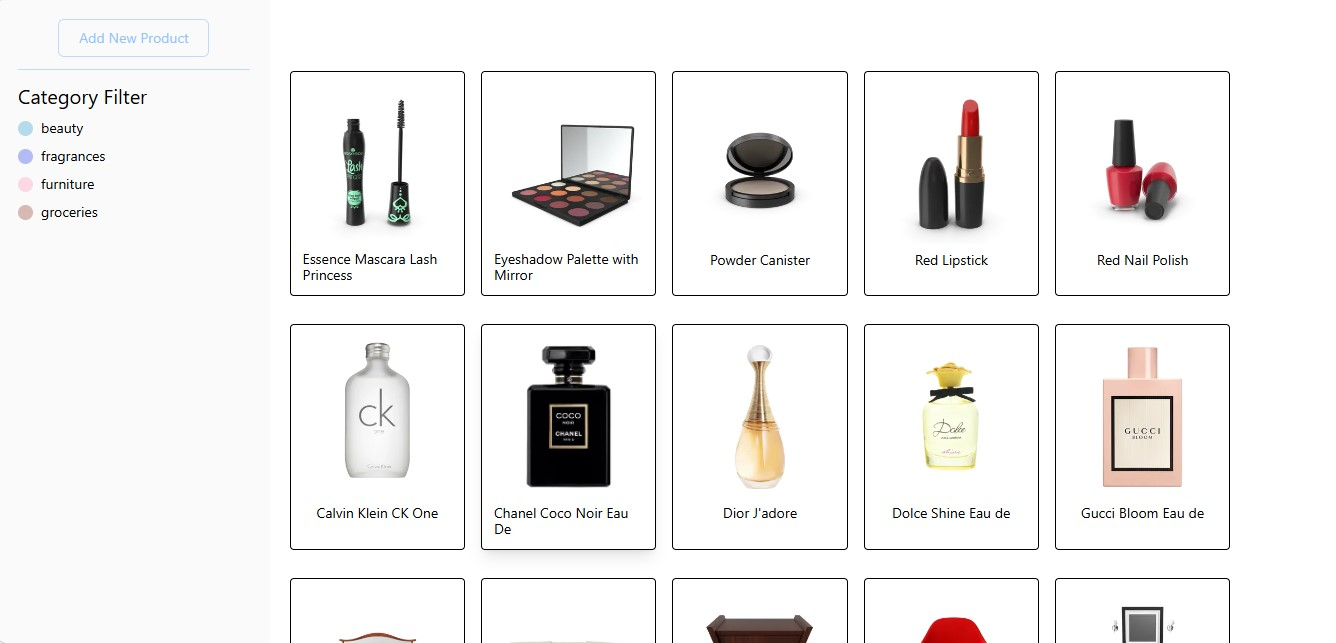
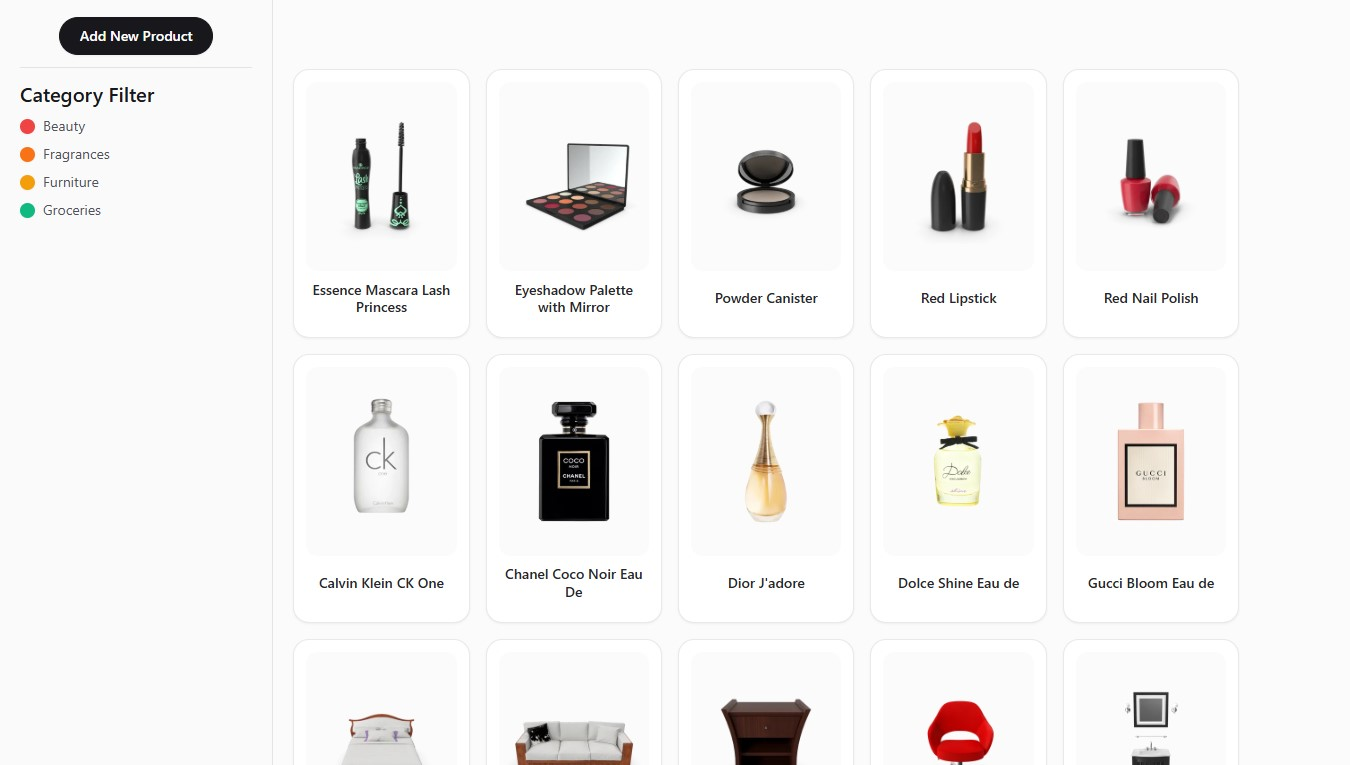
style: make mobile header sticky and updated screenshots

diff --git a/src/components/Navbar.jsx b/src/components/Navbar.jsx
@@ -48,7 +48,7 @@ function Navbar() {
   distinctCategory = [...new Set(distinctCategory)];
 
   return (
-    <nav className="w-full md:w-[20%] md:h-full bg-zinc-50 px-5 py-4 sm:p-5 flex flex-col items-center shrink-0 border-b md:border-b-0 md:border-r border-zinc-200">
+    <nav className="w-full md:w-[20%] md:h-full bg-zinc-50 max-md:sticky max-md:top-0 z-10 px-5 py-4 sm:p-5 flex flex-col items-center shrink-0 border-b md:border-b-0 md:border-r border-zinc-200">
       <div className="w-full flex items-center justify-between md:justify-center">
         <Link
           className="border px-4 py-2 md:px-5 md:py-2 rounded-full border-zinc-900 bg-zinc-900 text-white text-sm font-medium shadow-xs hover:bg-zinc-800 transition active:scale-95 motion-reduce:active:scale-100"
